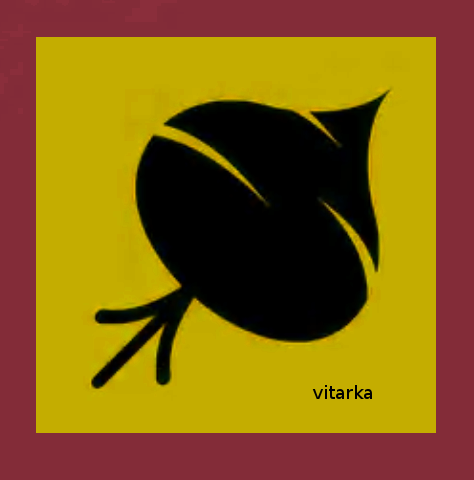
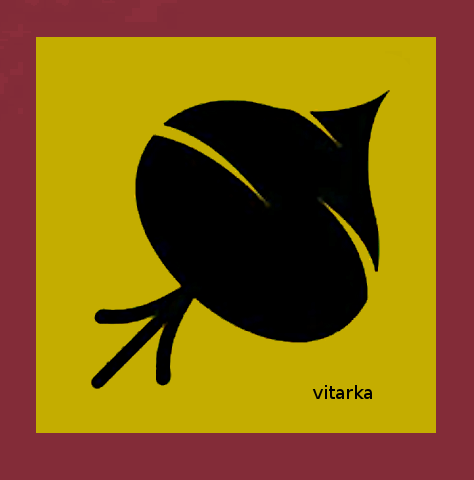
(chore) Prepare repo for public use
This involved the following:

1. Do small refactors after some key-scrubbing with bfg and finding a good root commit.

2. Add "init:droid" npm script, with a small kludge to prevent Cordova from complaining
   about the plugins that need to be installed from Github.

3. Change .gitignore to ignore the entire platforms folder, which is slightly more
   future-proof and consistent with how the history was scrubbed of build artifacts.

4. Add a bunch of long-winded content to the README.md, so it isn't totally empty.

5. Add some vitarka.png variations to go with the README.md, and make the prototype
consistent with the screenshot.

6. Add a dotenv.example file, to make it easier to collect keys.

7. Add repository entry to package.json and fix license expression to be SPDX
   compatible.

diff --git a/proto/layouts.html b/proto/layouts.html
@@ -157,7 +157,7 @@ br { line-height: 4px; }
 h5, h4,h3,h2,h1 { margin: 4px;}
 p { font-size: 9px; margin: 3px;}
 .s {font-size: 7px; }
-br.dx { line-height: 2em; }</style></head><body><div class="container"><div class="flexer"><div class="screen main"><h3 class="center">Main</h3><p class="center">A2.M3.W3 : S2.1.B2</p><br/><p>Poms Done Today: 8</p><p>Saturation: 10:00 </p><p>Blocks: 20: 25 30 35</p><br/><h5>Active Topics</h5><p>Code</p><p>Metier</p><p>Demi</p><p>Journal Writing</p><p>Sprint Planning</p><br/><h5>Active Book</h5><p>Pro TypeScript</p><p>Effective TypeScript</p><p>On Anarchism</p><p>SitAnth</p><div class="flex-layer"><div class="rows"><h3>History</h3><h3>Config</h3></div></div></div><div class="screen start book"><h3 class="center">Start from Book</h3><p class="center">SitAnth</p><br/><p>Started On: 11/4/2020</p><p>Progress: 17% (100/250)</p><p>Avg Rate: 2% per pom</p><p>Poms Left: 10/50</p><p>End: 11/27/2020-12/8/2020</p><p>Accuracy: Missing Records</p><br/><h4>Summaries</h4><p class="s">1-4% lettrist psychogeography, guide to detournment</p><p class="s">4-6% future of detournement, Alba conf, Jorn's great intro</p><p class="s">6-16% on exclusion, 4th conference, insurrection</p><p class="s">16-17%, Vaneigem polemics on everyday life, delivered on tape</p><div class="flex-layer"><div class="rows"> <h2>1 2 3 4</h2></div><div class="rows"><h2>Start</h2></div></div></div><div class="screen start topic"><h3 class="center">Start from Topic</h3><p class="center">Metier</p><br/><p>First Done: 11/4/2020</p><p>Average Per Week: 4</p><p>Average Per Arc: 20</p><p>Poms Left on Quota: 4/10</p><br/><h4>Summaries</h4><p class="s">short journal entry, start making design protos in pug</p><p class="s">goofily make a draggable element (2)</p><p class="s">do "passive loop" from design diagram in basic list</p><p class="s">keep attending design; add other views, flex elements</p><p class="s">fill in start from book, set weights, running books </p><div class="flex-layer"><div class="rows"> <h2>1 2 3 4</h2></div><div class="rows"><h2>Start</h2></div></div></div><div class="screen set-weights"><h3 class="center">Set Weights</h3><h4>Books</h4><p>Pro TypeScript</p><input class="slider" type="range" min="0" max="4"/><p>Effective TypeScript</p><input class="slider" type="range" min="0" max="4"/><p>On Anarchism</p><input class="slider" type="range" min="0" max="4"/><h4>Topics</h4><p>Code</p><input class="slider" type="range" min="0" max="4"/><p>Metier</p><input class="slider" type="range" min="0" max="4"/><p>Journal Writing</p><input class="slider" type="range" min="0" max="4"/><p>Sprint Planning</p><input class="slider" type="range" min="0" max="4"/></div><div class="screen running book"><h3 class="center">Running Book</h3><p class="center">SitAnth</p><p>Poms: 4</p><p>Start Time: 13:25</p><p>End: 15:30-15:50</p><p>Reading Range: 18%-20%</p><p>Poms Left: 10</p><p>Pauses: 2</p><p>Pause Time: 5:20</p><div class="flex-layer"><h1 class="center">23:43:12</h1><h2 class="center">- 4 + </h2><br class="dx"/><div class="rows"><h3>Break</h3><h3>&nbspPause</h3><h3>&nbspEnd</h3></div></div></div><div class="screen running topic"><h3 class="center">Running Topic</h3><p class="center">Journal Writing</p><p>Poms: 4</p><p>Start Time: 13:25</p><p>End: 15:30-15:50</p><p>Reading Range: 18%-20%</p><p>Poms Left: 10</p><p>Pauses: 2</p><p>Pause Time: 5:20</p><div class="flex-layer"><h1 class="center">23:43:12</h1><h2 class="center">- 4 + </h2><br class="dx"/><div class="rows"><h3>Break</h3><h3>&nbspPause</h3><h3>&nbspEnd</h3></div></div></div><div class="screen configuration"><h3 class="center">Configuration</h3><br/><h4>Notifications</h4><h5>Desktop<div class="rows wide"> <p>Hourly Chime</p><p>On/Off</p></div><div class="rows wide"> <p>Block Chime</p><p>On/Off</p></div><div class="rows wide"> <p>Saturation</p><p>On/Off</p></div></h5><h5>Mobile<div class="rows wide"> <p>Hourly Chime</p><p>On/Off</p></div><div class="rows wide"> <p>Block Chime</p><p>On/Off</p></div><div class="rows wide"> <p>Saturation</p><p>On/Off</p></div></h5><h5>Browser <div class="rows wide"> <p>Hourly Chime</p><p>On/Off</p></div><div class="rows wide"> <p>Block Chime</p><p>On/Off</p></div><div class="rows wide"> <p>Saturation</p><p>On/Off</p></div></h5><h4>Misc<div class="rows wide"> <p>Allow Pauses</p><p>On/Off</p></div></h4></div><div class="screen history"><h3 class="center">History</h3><p class="center">A2.M3.W3 : S2.1.B2</p><h4>Arc</h4><h4>Month</h4><h4>Week</h4><h4>Day</h4><div class="flex-layer"><div class="rows"><h1><</h1><h1>></h1></div></div></div><div class="screen complete book"><h3 class="center">Book Complete</h3><p class="center">SitAnth</p><p>Poms: 4</p><p>Elapsed: 110 minutes</p><p>Pauses: 3</p><p>Pause Time: 15:20</p><br/><br class="dx"/><div class="flex-layer kb-droid"><div class="rows"><h2>18%</h2><h1>19%</h1><h2>20%</h2></div><br/><input class="done" type="text" minlength="0" maxlength="50" spellcheck="false" placeholder="scopes, abstract classes, generics, constraints 5/7"/><div class="kb-droid"></div></div></div><div class="screen complete topic"><h3 class="center">Topic Complete</h3></div></div></div><script>const $ = document.querySelector.bind(document);
+br.dx { line-height: 2em; }</style></head><body><div class="container"><div class="flexer"><div class="screen main"><h3 class="center">Main</h3><p class="center">A2.M3.W3 : S2.1.B2</p><br/><p>Poms Done Today: 8</p><p>Saturation: 10:00</p><p>Blocks: 20: 25 30 35</p><br/><h5>Active Topics</h5><p>Code</p><p>Metier</p><p>Demi</p><p>Journal Writing</p><p>Sprint Planning</p><br/><h5>Active Book</h5><p>Elixir in Action</p><p>Effective TypeScript</p><p>Absence of Myth</p><p>SitAnth</p><div class="flex-layer"><div class="rows"><h3>History</h3><h3>Config</h3></div></div></div><div class="screen start book"><h3 class="center">Start from Book</h3><p class="center">SitAnth</p><br/><p>Started On: 11/4/2020</p><p>Progress: 17% (100/250)</p><p>Avg Rate: 2% per pom</p><p>Poms Left: 10/50</p><p>End: 11/27/2020-12/8/2020</p><p>Accuracy: Missing Records</p><br/><h4>Summaries</h4><p class="s">1-4% lettrist psychogeography, guide to detournment</p><p class="s">4-6% future of detournement, Alba conf, Jorn's great intro</p><p class="s">6-16% on exclusion, 4th conference, insurrection</p><p class="s">16-17%, Vaneigem polemics on everyday life, delivered on tape</p><div class="flex-layer"><div class="rows"><h2>1 2 3 4</h2></div><div class="rows"><h2>Start</h2></div></div></div><div class="screen start topic"><h3 class="center">Start from Topic</h3><p class="center">Metier</p><br/><p>First Done: 11/4/2020</p><p>Average Per Week: 4</p><p>Average Per Arc: 20</p><p>Poms Left on Quota: 4/10</p><br/><h4>Summaries</h4><p class="s">short journal entry, start making design protos in pug</p><p class="s">goofily make a draggable element (2)</p><p class="s">do "passive loop" from design diagram in basic list</p><p class="s">keep attending design; add other views, flex elements</p><p class="s">fill in start from book, set weights, running books</p><div class="flex-layer"><div class="rows"><h2>1 2 3 4</h2></div><div class="rows"><h2>Start</h2></div></div></div><div class="screen set-weights"><h3 class="center">Set Weights</h3><h4>Books</h4><p>Elixir in Action</p><input class="slider" type="range" min="0" max="4"/><p>Effective TypeScript</p><input class="slider" type="range" min="0" max="4"/><p>Absence of Myth</p><input class="slider" type="range" min="0" max="4"/><h4>Topics</h4><p>Code</p><input class="slider" type="range" min="0" max="4"/><p>Metier</p><input class="slider" type="range" min="0" max="4"/><p>Journal Writing</p><input class="slider" type="range" min="0" max="4"/><p>Sprint Planning</p><input class="slider" type="range" min="0" max="4"/></div><div class="screen running book"><h3 class="center">Running Book</h3><p class="center">SitAnth</p><p>Poms: 4</p><p>Start Time: 13:25</p><p>End: 15:30-15:50</p><p>Reading Range: 18%-20%</p><p>Poms Left: 10</p><p>Pauses: 2</p><p>Pause Time: 5:20</p><div class="flex-layer"><h1 class="center">23:43:12</h1><h2 class="center">- 4 +</h2><br class="dx"/><div class="rows"><h3>Break</h3><h3>&nbspPause</h3><h3>&nbspEnd</h3></div></div></div><div class="screen running topic"><h3 class="center">Running Topic</h3><p class="center">Journal Writing</p><p>Poms: 4</p><p>Start Time: 13:25</p><p>End: 15:30-15:50</p><p>Reading Range: 18%-20%</p><p>Poms Left: 10</p><p>Pauses: 2</p><p>Pause Time: 5:20</p><div class="flex-layer"><h1 class="center">23:43:12</h1><h2 class="center">- 4 +</h2><br class="dx"/><div class="rows"><h3>Break</h3><h3>&nbspPause</h3><h3>&nbspEnd</h3></div></div></div><div class="screen configuration"><h3 class="center">Configuration</h3><br/><h4>Notifications</h4><h5>Desktop<div class="rows wide"><p>Hourly Chime</p><p>On/Off</p></div><div class="rows wide"><p>Block Chime</p><p>On/Off</p></div><div class="rows wide"><p>Saturation</p><p>On/Off</p></div></h5><h5>Mobile<div class="rows wide"><p>Hourly Chime</p><p>On/Off</p></div><div class="rows wide"><p>Block Chime</p><p>On/Off</p></div><div class="rows wide"><p>Saturation</p><p>On/Off</p></div></h5><h5>Browser<div class="rows wide"><p>Hourly Chime</p><p>On/Off</p></div><div class="rows wide"><p>Block Chime</p><p>On/Off</p></div><div class="rows wide"><p>Saturation</p><p>On/Off</p></div></h5><h4>Misc<div class="rows wide"><p>Allow Pauses</p><p>On/Off</p></div></h4></div><div class="screen history"><h3 class="center">History</h3><p class="center">A2.M3.W3 : S2.1.B2</p><h4>Arc</h4><h4>Month</h4><h4>Week</h4><h4>Day</h4><div class="flex-layer"><div class="rows"><h1><</h1><h1>></h1></div></div></div><div class="screen complete book"><h3 class="center">Book Complete</h3><p class="center">SitAnth</p><p>Poms: 4</p><p>Elapsed: 110 minutes</p><p>Pauses: 3</p><p>Pause Time: 15:20</p><br/><br class="dx"/><div class="flex-layer kb-droid"><div class="rows"><h2>18%</h2><h1>19%</h1><h2>20%</h2></div><br/><input class="done" type="text" minlength="0" maxlength="50" spellcheck="false" placeholder="scopes, abstract classes, generics, constraints 5/7"/><div class="kb-droid"></div></div></div><div class="screen complete topic"><h3 class="center">Topic Complete</h3></div></div></div><script>const $ = document.querySelector.bind(document);
 const $$ = document.querySelectorAll.bind(document);
 
 const d = {
@@ -190,7 +190,7 @@ document.addEventListener('mousemove', (e) => {
   const sameX =  x === parseInt(d.dragging.style.left);
   const sameY =  y === parseInt(d.dragging.style.top);
   if (sameX && sameY) return;
-  
+
   Object.assign(d.dragging.style, {
     left: x,
     top: y,

diff --git a/client/src/lib/dropbox.js b/client/src/lib/dropbox.js
@@ -15,6 +15,8 @@ import md5 from 'js-md5';
 window.md5 = md5;
 window.fetchStream = fetchStream;
 
+const CLIENT_ID = process.env.DROPBOX_CLIENT;
+
 /*
   "callbacks" is POJO with the following keys:
       first: func for the first chunk
@@ -210,7 +212,7 @@ let dropbox, accessToken;
  *    but it'd be pretty great to get rid of it *quickly*
  */
 function handleLogin(onFirstFunc, onCompleteFunc, waitForOnline, onFirstScratchFunc, onCompleteScratchFunc) {
-  const clientId = process.env.DROPBOX_CLIENT;
+  const clientId = CLIENT_ID;
   
   // FUCK, I hate when I code like this!
   _s.rawPomsheet = 'In handleLong(); about to check for access token';
@@ -233,7 +235,7 @@ function handleLogin(onFirstFunc, onCompleteFunc, waitForOnline, onFirstScratchF
   });  
 }
 
-function loadOrGenerateUserHash(clientId = process.env.DROPBOX_CLIENT) {
+function loadOrGenerateUserHash(clientId = CLIENT_ID) {
   const userHash = window.localStorage.getItem('__bindu__');
   if (userHash) return Promise.resolve(userHash);
   return dropbox.usersGetCurrentAccount().then(result => {

diff --git a/native/cordova/www_old/index.html b/native/cordova/www_old/index.html
@@ -93,7 +93,8 @@
         <script type="text/javascript" src="js/wobble.js"></script>
         <script type="text/javascript" src="js/index.js"></script>
         <script type="text/javascript" src="js/later.min.js"></script>
-        <script src="https://code.responsivevoice.org/responsivevoice.js?key=**INSERT_RV_KEY**"></script>
+        <!-- Responsive Voice requires a key, so get one and insert if playing around with this  -->
+        <script src="https://code.responsivevoice.org/responsivevoice.js"></script>
     </body>
     <script>
         // Change and push to make work for the day!

diff --git a/client/src/lib/pubnub.js b/client/src/lib/pubnub.js
@@ -1,7 +1,7 @@
 const PubNub = window.PubNub; // Sorry everybody! 
 
 const publishKey = process.env.PN_PUB;
-const subscribeKey =  process.env.PN_SUB;
+const subscribeKey = process.env.PN_SUB;
 
 const client = new PubNub({
   publishKey,

diff --git a/README.md b/README.md
@@ -1,1 +1,152 @@
 # Vitarka
+<br>
+<p align="center">
+  <img src="https://user-images.githubusercontent.com/2810775/92303014-03d04d00-ef26-11ea-955a-519f484a3d64.png">
+</p>
+
+## Background
+This is a personal-use project that I'm finally making public, despite the code still being a bit of a mess. I've had some friends tell me that they'd find my system worthwhile if it worked well, so hopefully I can get it there by continuing to poke at it. In short: it's a system designed for autodidacting!
+
+
+As for why I called it this, I'll just quote Wikipedia:
+
+> While initially simply referring to thought, which in present at the onset of dhyāna, the terms vitarka and vicāra were re-interpreted by the developing Abhidharma and commentarial tradition. In Theravāda, vitarka is one of the mental factors (cetasika) that apprehend the quality of an object. __It is the "initial application of attention" or the mind to its object__, while vicāra is the sustained application of the mind on an object. __Vitarka is regarded in the Theravāda tradition as an antidote for thina-middha (sloth and torpor), one of the five hindrances.__
+
+I originally wanted to call it Vicara, but apparently that name's a bit more popular and therefore already commercially recuperated. But I like the bit about Vitarka being a bulwark against __sloth and torpor__, which is a huge part of it. What we're really interested in is both -- the entire circuit of vitarka-vicara --  and this seems like a good place to start.
+
+Anyhow, here's how I currently use it:
+
+1\. I keep a text file sheet in Dropbox on one of my workspaces, and a lazier version of it on my phone. It uses a pretty simple format, like so: 
+
+```
+5/21/20XX
+
+0.5 &WW^ Workthrough: SEL Html 5 -> 29% X
+1.5 & Renoise: read forums on secondary highlighting, 3.0 release notes X
+3 &E Read: The Launchpad -> 22% X
+3.5 &DD Virtualization: get VMware running Windows 7, troubleshoot lack of 3D support  X
+4 &DD Virtualization: noodle through driver issues, add PPA's and try to install drivers X
+5 &DD! Virtualization: enable SNA, abandon VMware, test Space Shooter in Chrome, better! X
+ 
+```
+(See the [pom-parsley](https://github.com/salmonax/pom-parsley) repo for more details about the syntax.)
+
+Lazy form:
+
+```
+8/28/2020
+# 7: 12 17 22
+9 mfn, 46%, palace, repetition, writing, exercise; advantage of slow xx
+10.5 cybernetic brain, 258, Beer and Brunel; pivot from TUV to VSM xx
+12.5 sensoria, 18%, Steyerl's junktime, Citton's attention ecology in vectoralism xx
+14 oochaos, 30%, Comte, conservation, neo-Kantian physiology xx
+16.5 intensive science, 51, ontology of vector fields, Quine, actualism, possible vs. virtual xx
+22 complex systems, 91, functionalism in neuro, net modeling issues; social xx
+```
+
+
+2\. I set a timer, either at my desktop or on my phone. (There's a certain logic to it, which has deviated quite a bit from classic Pomodoro Technique<small><sup>TM</sup></small>, but isn't yet codified in the app; see [Turnip Technique](#teh-turnip)<small><sup>TM</sup></small> below.) When done, I mark it down in the sheet.
+
+3\. The desktop webapp merges everything together and gives me a visual about what the heck I've been doing:
+
+![What the heck I've been doing](https://user-images.githubusercontent.com/2810775/92298147-cefad080-eefa-11ea-89f7-a1610817a8fa.png)
+
+
+Note that each day is divided into three five-hour blocks, which is read from the text file and marked by green lines. I was completely nocturnal that week, so of course logging over 24 hours is allowed. The idea is to structure things only loosely, while allowing for the idiosyncracies typical of the unruly.
+
+It can also show the fitful flailing of my sometimes-awful reading habits over time:
+
+![Fitful Flailing](https://user-images.githubusercontent.com/2810775/92298148-d1f5c100-eefa-11ea-9b65-f3e448d1c361.png)
+
+
+4\. The mobile app is configured to make Casio-like beeps every hour, counting down from 5 at the top of a 5-hour block down to one. This keeps me minimalistically aware of where I am in the day. The Cordova app works in the background, though not yet by particularly battery-efficient means. Apart from that, it's in a very early state, with a set of Minimnum Usable Tool screens in the /proto folder, of which a few are implemented:
+
+![Mobile Flow](https://user-images.githubusercontent.com/2810775/92298371-d7540b00-eefc-11ea-85ef-896819711da7.png)
+
+## <a id='teh-turnip'></a> Turnip Technique<small><sup>TM</sup></small>
+
+The classic Pomodoro Technique involves 25 minute timers with five minute breaks, with a 20 minute timer every two hours. I used to kinda-sorta do this, but over time I gradually transitioned into a whole system that worked much better for the sorts of things I like to do, at least for me.
+
+
+In practice, I now tend to read in 50 minute sets and program in 100 minute sets, and I design the full day around
+6-9 hours of focused activity, with constrained but highly variable break-management. A two-hour set gets its own "local" break-pool, and the entire day gets a "global" break-pool. The idea is less about enforcing *regular* breaks than about establishing the right amount of slack to increase focusing stamina; I'm both motivated by challenging material and super fidgety, so it's designed to reign in that kind of temperament.
+
+For example: a long study day of 16 poms might last 9 hours. I'll divide this into 4 "quadropom" sessions, with 144 minutes of on-task time (for reading, I pad my poms with an extra minute, just because), and 15 minutes of break time per session. The global pool gets 50 minutes. 
+
+At the end of the session, I give myself as much of the global time as I want or need. I'll also change up the day-design; for example, I might go for 12 poms of coding in 8 hours, which gives me enough time to interleave an hour of another activity, or just goof around.
+
+What you end up with is two levels of semi-off-the-clock commitment, which reign you back into the overall day while allowing for a variable amount of wandering around.
+
+## Why Turnip?
+
+The name "turnip" comes from a widget I sometimes use to pace myself through National Novel Writing Month. For some reason, the act of grilling down on something as stressful as non-stop writing made me think of pulling up turnips out of the ground in Mario 2. 
+
+To make the widget, I simply figured out how fast I could write a given story (for me, 10wpm-35wpm, depending on the difficulty of the story, or 2-4 poms per day). Then, I'd keep a counter that told me how many poms worth of work I needed to get done in order to be caught up. I normally just use a spreadsheet, but the concept is sketched out a bit in src/client/lib/turnip.js. 
+
+The reason it worked was that I never worried about my wordcount or clung to a burndown chart; all I cared about was the number. Instead of forcing myself to write every day, I'd simply wait for that number to get so mammoth that I'd completely freak out and start writing until it was back within normal bounds. In other words, it functioned as a kind of homeostat. 
+
+Essentially, I see where this is going as a generalization of that technique.
+
+## Installation and Usage
+
+To initiate the app:
+
+```
+npm install
+npm init:droid 
+```
+
+To run different pieces of it:
+```
+# Webapp:
+npm run start
+
+# For Android, open /native/cordova/package.json and set it to your phone's local IP
+npm run build:droid
+
+# To use a cool livereload instance that pushes from your dev computer:
+npm run build:droid:live
+
+# For Electron, will currently just print a message:
+npm run build:electron
+```
+
+To deploy (to surge.sh):
+```
+# Open /package.json, change 'vitarka.surge.sh' to something else, and run:
+npm run deploy
+```
+
+WARNING: I wouldn't try to do this just yet; it requires you to have a Dropbox account with both text files in hard-coded places, and I haven't furnished it with any examples. However, if you must, there's one more thing you need. Make a .env file in the root folder that looks like the following (see /dotenv.example):
+
+```
+PN_PUB=<pubnub publishing  key>
+PN_SUB=<pubnub subscription key>
+DROPBOX_CLIENT=<dropbox client id>
+RESPONSIVE_VOICE=<resonsive voice id>
+GOOGLE_BOOKS=<Google Books API key>
+```
+
+The only necessary one is the Dropbox client id, which you can get here: https://www.dropbox.com/developers
+
+As for how the others are used: Pubnub is used to sync the ubiquitous timer across devices, which has a working implementation but no UX. Google is used for displaying book covers, of which an early example exists in client/src/components/BookCovers. Responsive Voice was mainly just a joke, but an example is in cordova/www_old.
+
+## Architecture
+
+This is a React app bundled with Webpack, using MobX for state management and pug templates for easy legibility and quick prototyping. However, as the priority has been experimentation, the MobX stores haven't yet been decomposed, and there's been no separation between UI and domain stores (with the former typically fused to individual components and the latter in a monolithic controller-esque CommonStore that depends on a few utility services). It's not *quite* a bit ball of mud, but it basically is. The dependency graph looks like this:
+
+<p align="center">
+  <img src="https://user-images.githubusercontent.com/2810775/92302463-33308b00-ef21-11ea-83c6-9aceb31292ff.png">
+</p>
+
+So, there might be hope, provided that each "unseparated concerns" are extracted and polished. I probably won't rewrite it until a good chunk of the UX is done, at least in a bare state. 
+
+## Contributing
+
+For now, if this seems interesting (and you happen to be pretty patient), contact me at george@nomadscience.org and we might be able to collab on making it more contrib-ready. If you're working on or have concocted something similar, I'd also love to exchange ideas.
+
+## License
+
+GPLv2 or later. Change my mind!
+
+
